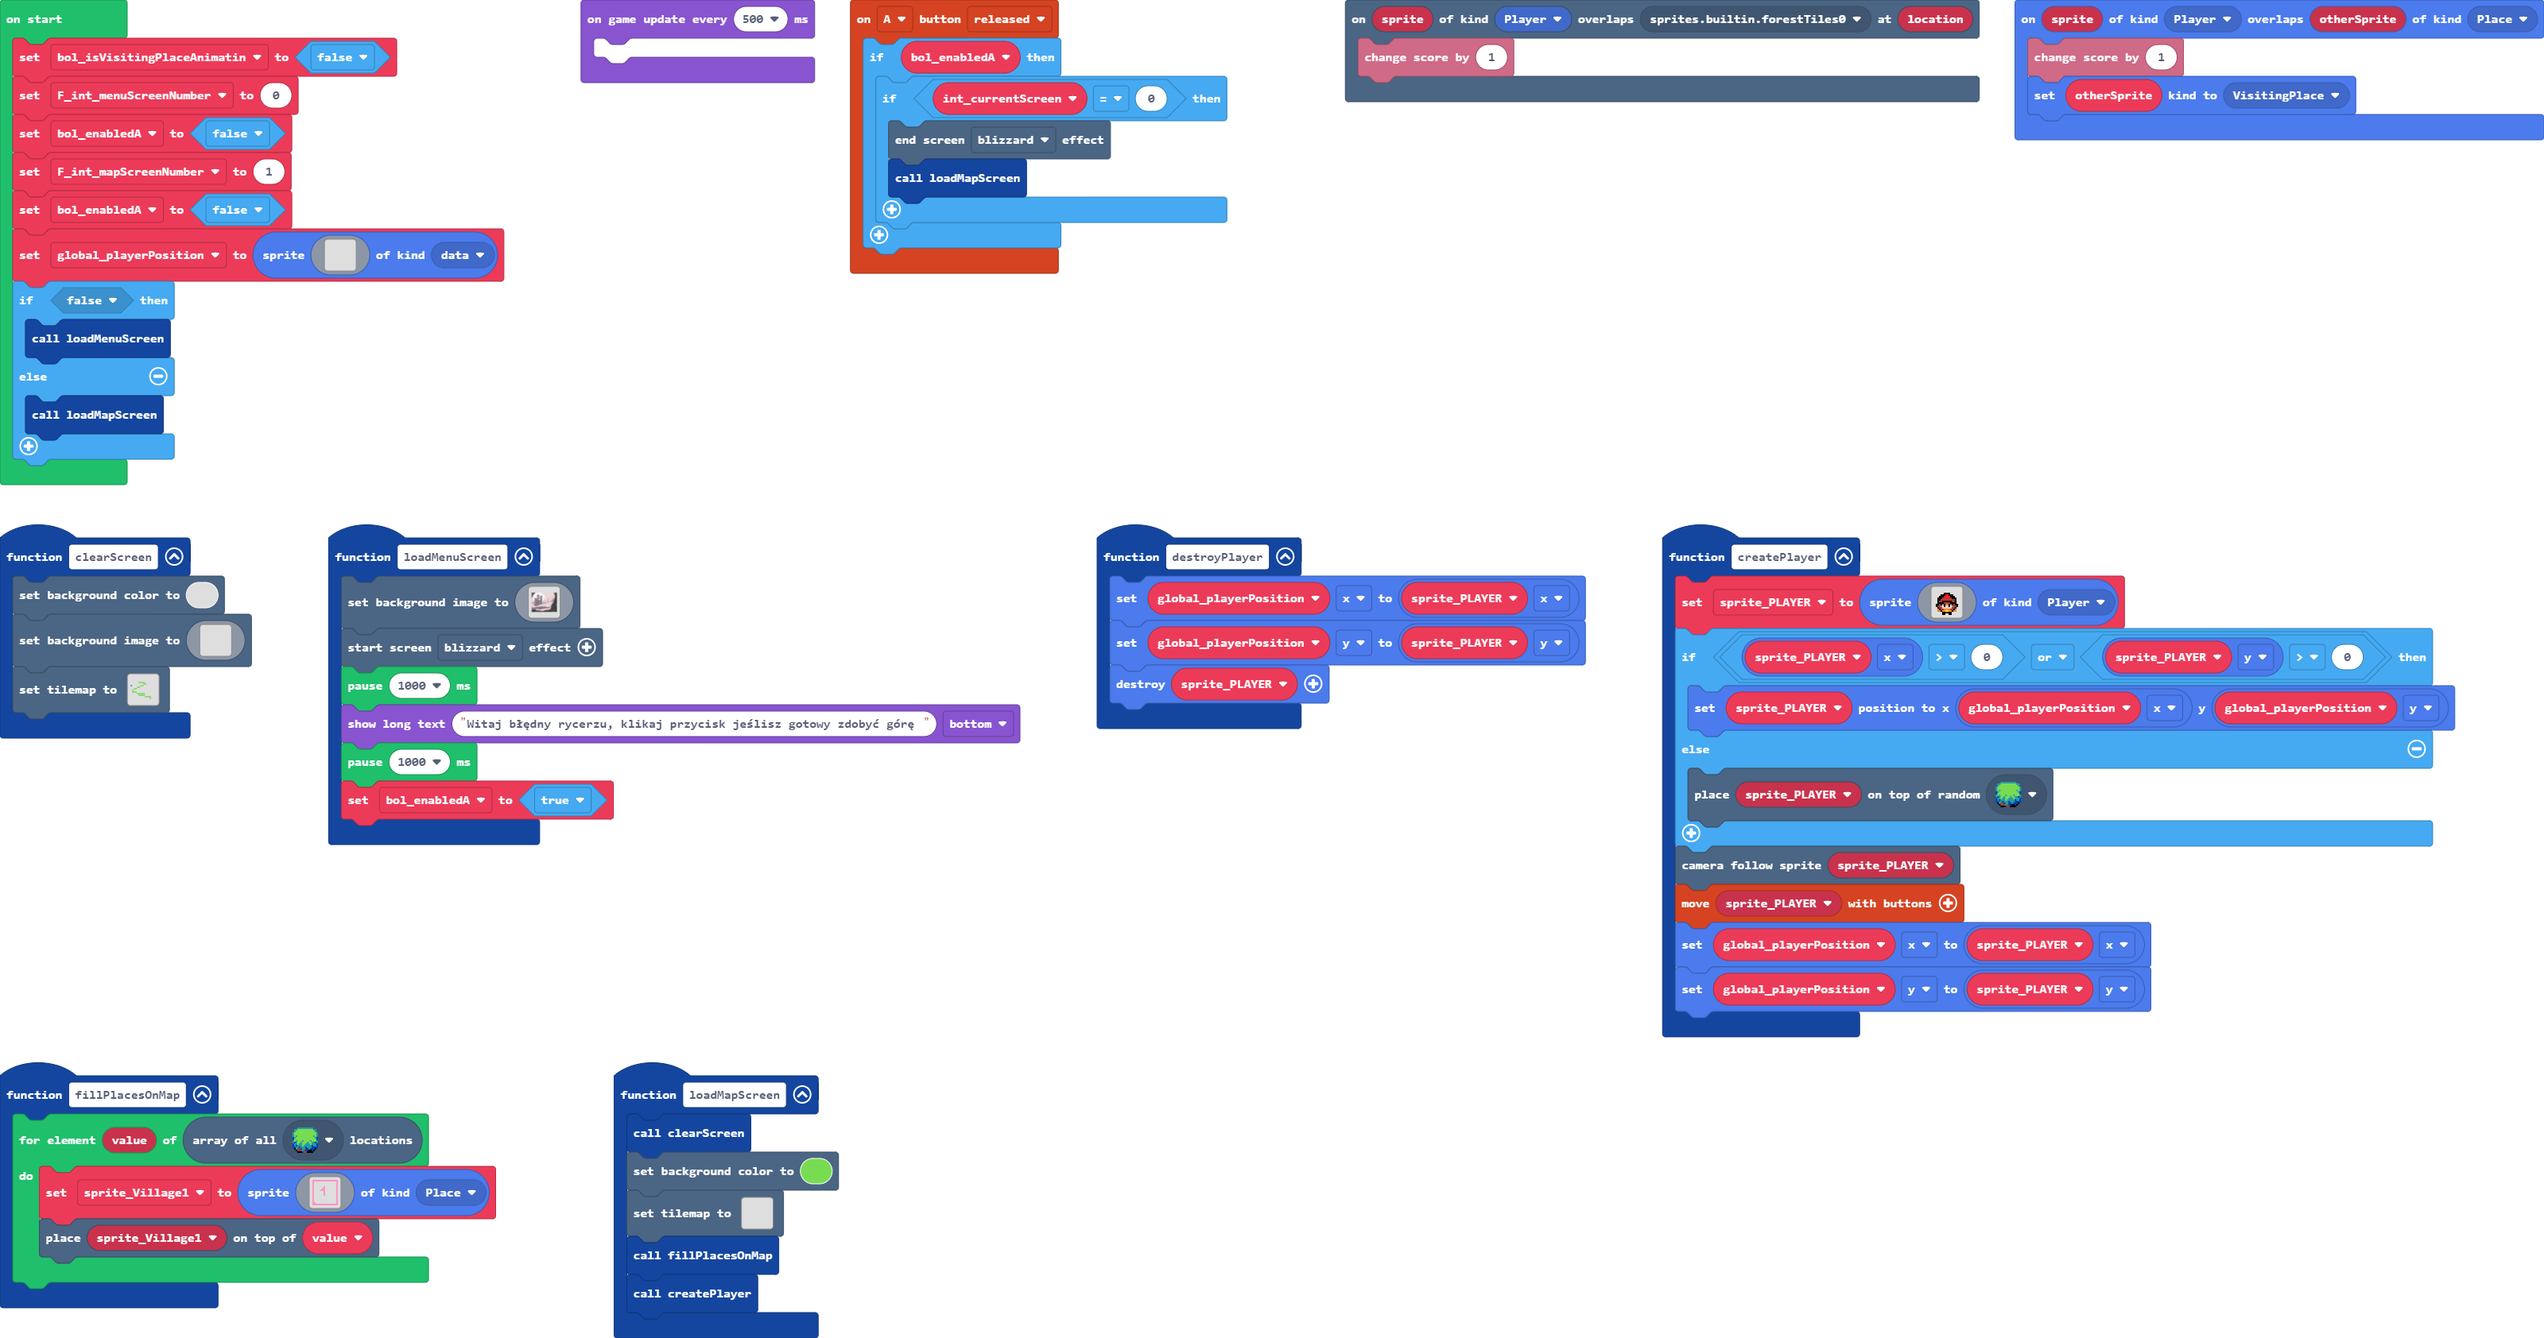
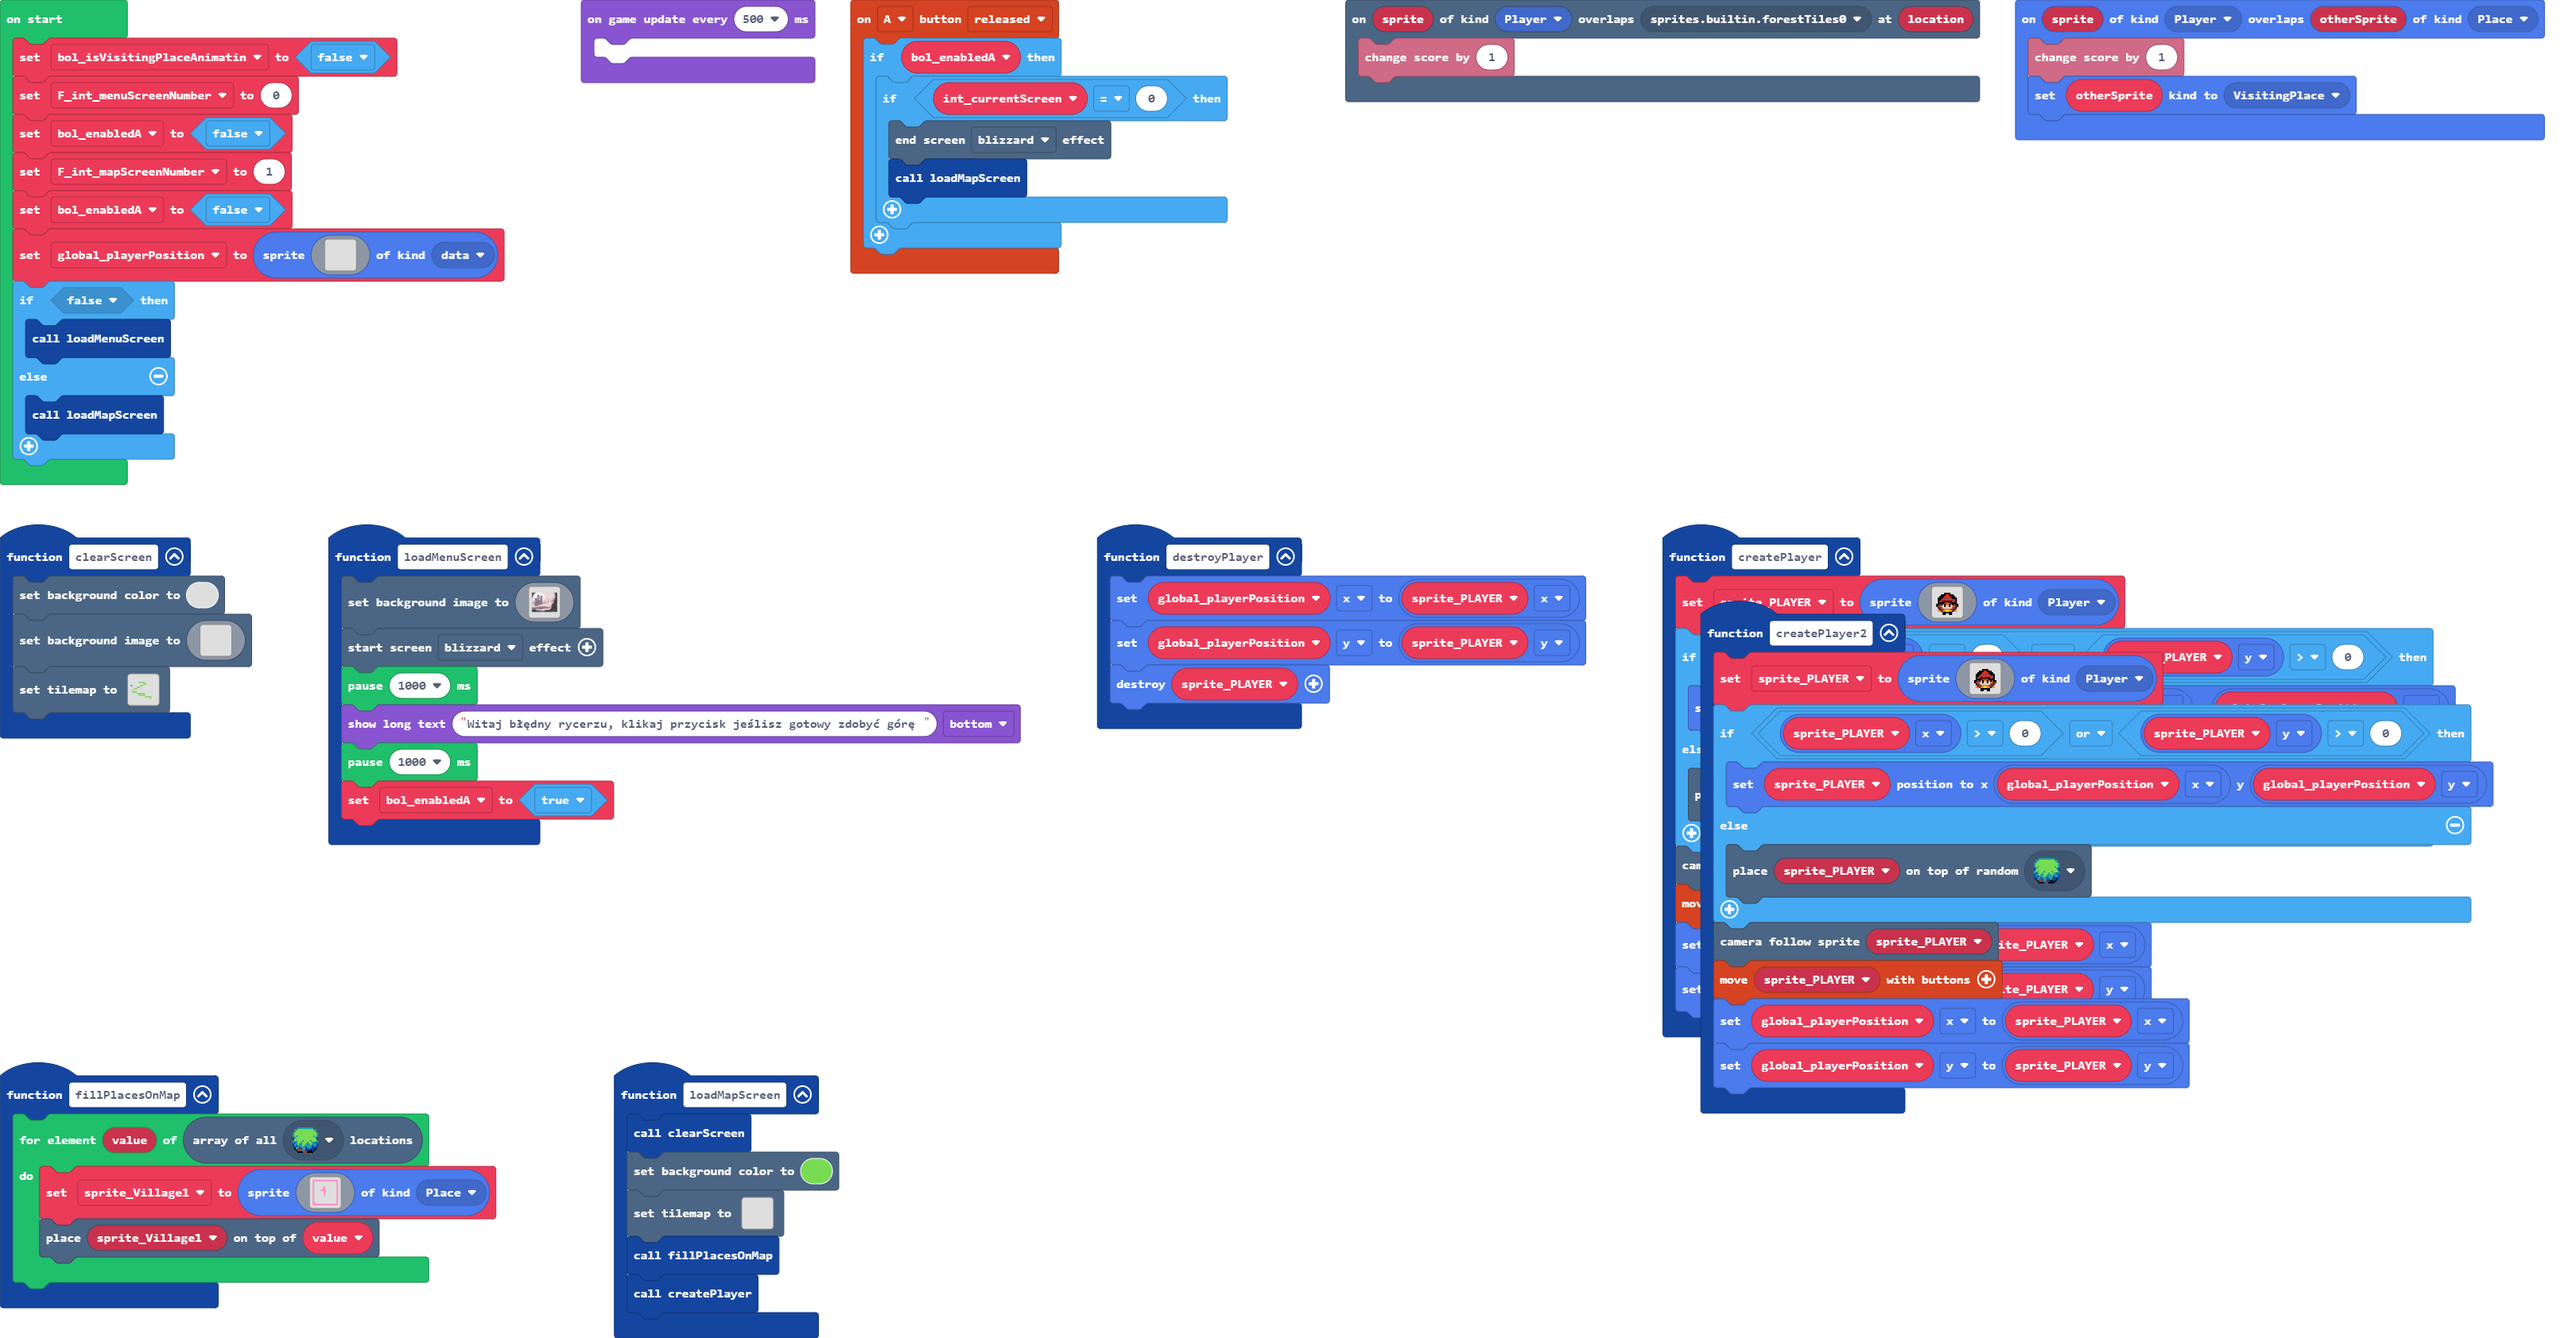
kkk

diff --git a/tilemap.g.ts b/tilemap.g.ts
@@ -43,6 +43,25 @@ namespace myTiles {
 . . . . . . . . . . . . . . . . 
 . . . . . . . . . . . . . . . . 
 `, [myTiles.transparency16], TileScale.Sixteen);
+            case "level4":
+            case "level4":return tiles.createTilemap(hex`1000100000000000000000000000000000000000000000000000000000000000000000000000000000000000000000000000000000000000000000000000000000000000000000000000000000000000000000000000000000000000000000000000000000000000000000000000000000000000000000000000000000000000000000000000000000000000000000000000000000000000000000000000000000000000000000000000000000000000000000000000000000000000000000000000000000000000000000000000000000000000000000000000000000000000000000000000000000000000000000000000000000000000000000000000000000000000`, img`
+. . . . . . . . . . . . . . . . 
+. . . . . . . . . . . . . . . . 
+. . . . . . . . . . . . . . . . 
+. . . . . . . . . . . . . . . . 
+. . . . . . . . . . . . . . . . 
+. . . . . . . . . . . . . . . . 
+. . . . . . . . . . . . . . . . 
+. . . . . . . . . . . . . . . . 
+. . . . . . . . . . . . . . . . 
+. . . . . . . . . . . . . . . . 
+. . . . . . . . . . . . . . . . 
+. . . . . . . . . . . . . . . . 
+. . . . . . . . . . . . . . . . 
+. . . . . . . . . . . . . . . . 
+. . . . . . . . . . . . . . . . 
+. . . . . . . . . . . . . . . . 
+`, [myTiles.transparency16], TileScale.Sixteen);
             case "level2":
             case "level2":return tiles.createTilemap(hex`1000100000000000000000000000000000000000000000000000000000000000000000000000000000000000000000000000000000000000000000000000000000000000000000000000000000000000000000000000000000000000000000000000000000000000000000000000000000000000000000000000000000000000000000000000000000000000000000000000000000000000000000000000000000000000000000000000000000000000000000000000000000000000000000000000000000000000000000000000000000000000000000000000000000000000000000000000000000000000000000000000000000000000000000000000000000000000`, img`
 . . . . . . . . . . . . . . . . 

diff --git a/main.ts b/main.ts
@@ -308,6 +308,35 @@ function createPlayer () {
     global_playerPosition.x = sprite_PLAYER.x
     global_playerPosition.y = sprite_PLAYER.y
 }
+function createPlayer2 () {
+    sprite_PLAYER = sprites.create(img`
+        . . . . . . . . . . . . . . . . 
+        . . . . . . . . . . . . . . . . 
+        . . . . . . f f f f . . . . . . 
+        . . . . f f f 2 2 f f f . . . . 
+        . . . f f f 2 2 2 2 f f f . . . 
+        . . f f f e e e e e e f f f . . 
+        . . f f e 2 2 2 2 2 2 e e f . . 
+        . . f e 2 f f f f f f 2 e f . . 
+        . . f f f f e e e e f f f f . . 
+        . f f e f b f 4 4 f b f e f f . 
+        . f e e 4 1 f d d f 1 4 e e f . 
+        . . f e e d d d d d d e e f . . 
+        . . 4 f e e 4 4 4 4 e e f 4 . . 
+        . . 4 4 f 4 4 5 5 4 4 f 4 4 . . 
+        . . . . . f f f f f f . . . . . 
+        . . . . . f f . . f f . . . . . 
+        `, SpriteKind.Player)
+    if (sprite_PLAYER.x > 0 || sprite_PLAYER.y > 0) {
+        sprite_PLAYER.setPosition(global_playerPosition.x, global_playerPosition.y)
+    } else {
+        tiles.placeOnRandomTile(sprite_PLAYER, sprites.builtin.forestTiles0)
+    }
+    scene.cameraFollowSprite(sprite_PLAYER)
+    controller.moveSprite(sprite_PLAYER)
+    global_playerPosition.x = sprite_PLAYER.x
+    global_playerPosition.y = sprite_PLAYER.y
+}
 function fillPlacesOnMap () {
     for (let value of tiles.getTilesByType(sprites.builtin.forestTiles0)) {
         sprite_Village1 = sprites.create(img`
